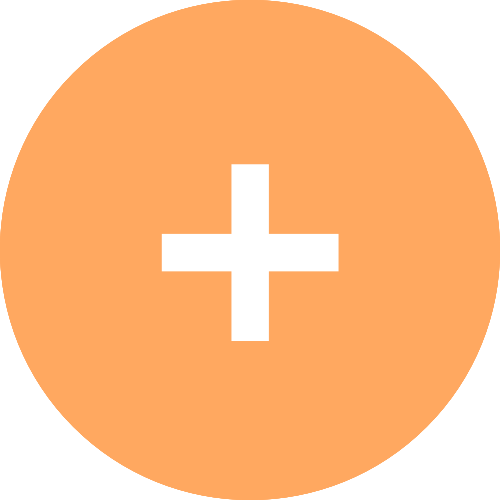
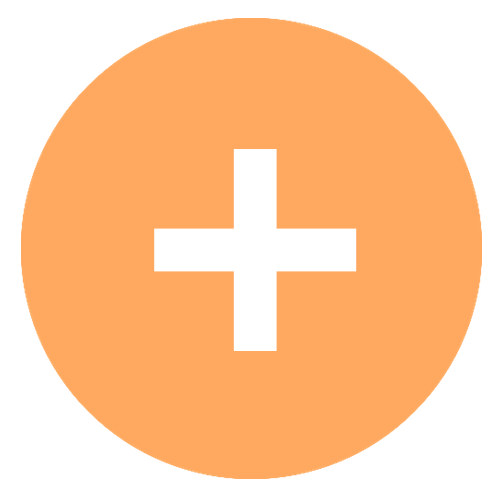
Added shadow

Changed region(s): [[0.0, 0.0, 1.0, 1.0], [0.3, 0.3, 0.72, 0.57], [0.45, 0.54, 0.57, 0.72]]

diff --git a/Code/iosCode/MapViewPins.js b/Code/iosCode/MapViewPins.js
@@ -104,7 +104,7 @@ class MapViewPins extends Component {
         
           <TouchableOpacity onPress={this._navigateToProfile.bind(this)} style={styles.profile}>
             <Image
-              style={{width: 70, height: 70}}
+              style={styles.plusButton}
               source={require('../../Images/plus.png')}
             />
           </TouchableOpacity>
@@ -134,6 +134,17 @@ const styles = new StyleSheet.create({
     position: 'absolute',
     bottom: 40,
     right: 20
+  },
+  plusButton: {
+    width: 70, 
+    height: 70,
+    shadowColor: '#999999',
+    shadowOffset: {
+      width: 0,
+      height: 3
+    },
+    shadowRadius: 2,
+    shadowOpacity: 1.0
   }
 })
 
